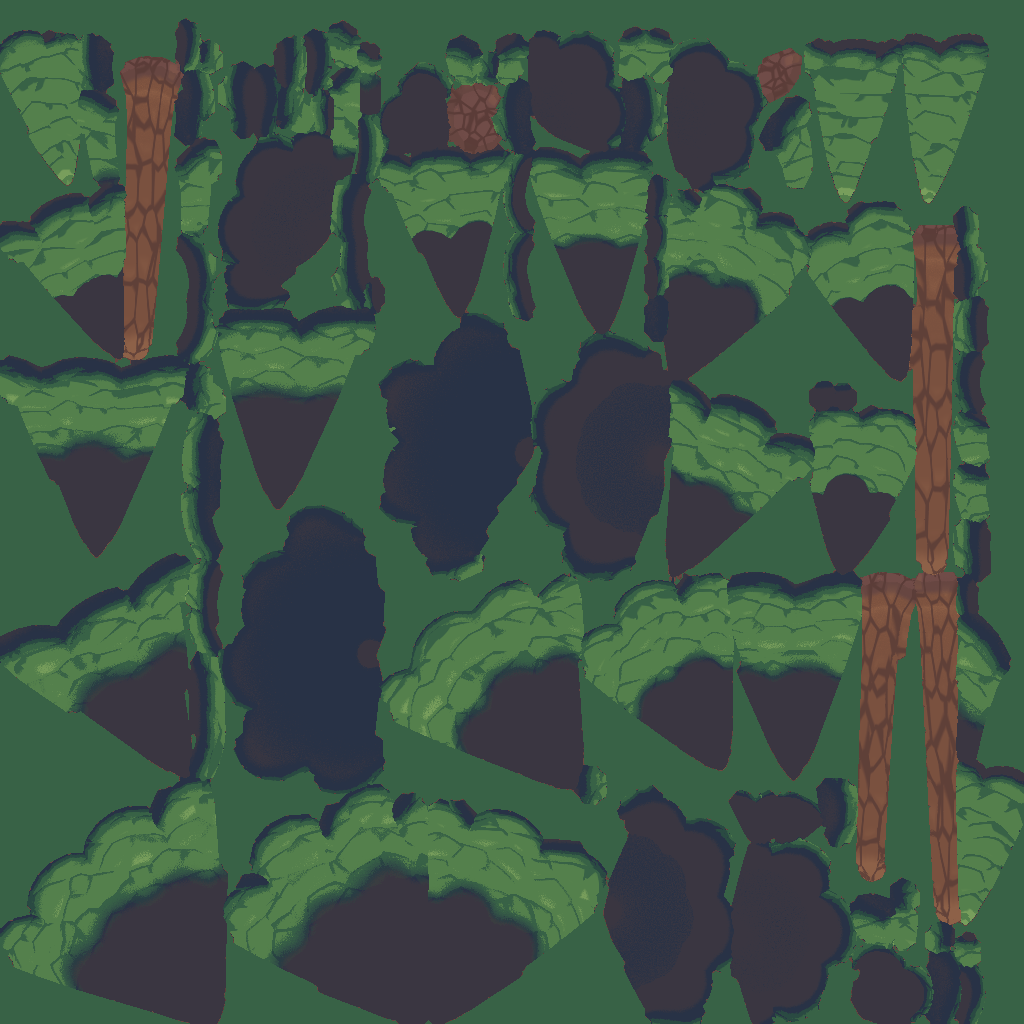
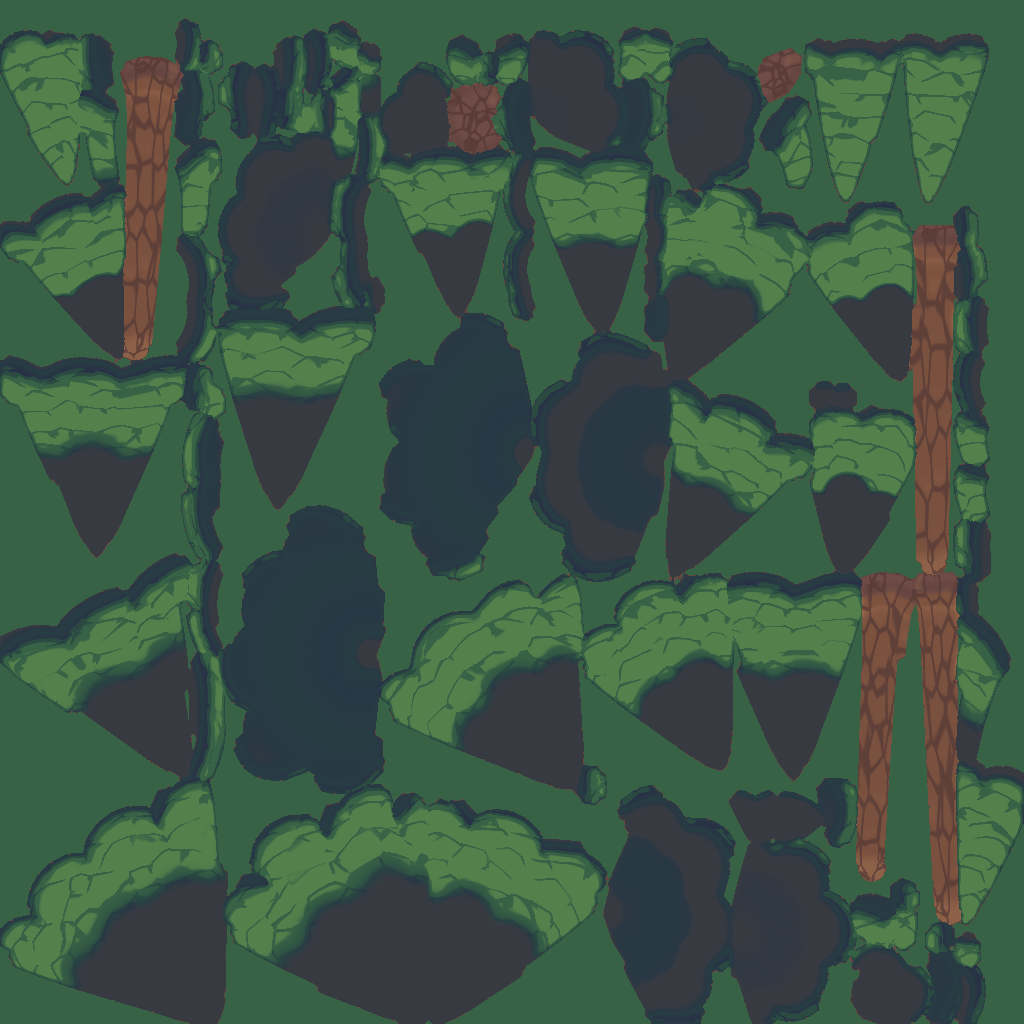
art-rnd-1: trees v4: clean AO (no grain), warmer crevices, no small dabs on the pine
Claude-Session: https://claude.ai/code/session_019Ee5efaMp7ec6dhFqQfV6R

diff --git a/tools/art/trees/paint.py b/tools/art/trees/paint.py
@@ -93,7 +93,13 @@ nb = d["normal"][..., :3] * 2 - 1
 N = np.stack([nb[..., 0], nb[..., 2], -nb[..., 1]], -1).reshape(-1, 3)
 valid = d["normal"][..., :3].reshape(-1, 3).sum(1) > 0.01   # unbaked texels stay 0
 N[valid] /= np.linalg.norm(N[valid], axis=1, keepdims=True)
-ao = d["ao"][..., 0].reshape(-1)
+# The AO, softened so no sampling grain reaches the painting.
+ao = np.clip(d["ao"][..., 0], 0, 1).astype(float)
+k = np.exp(-0.5 * (np.arange(-6, 7) / 2.5) ** 2)
+k /= k.sum()
+for axis in (0, 1):
+    ao = np.apply_along_axis(lambda r: np.convolve(r, k, mode="same"), axis, ao)
+ao = ao.reshape(-1)
 leaf = d["leaf"][..., 0].reshape(-1) > 0.5
 SIZE = d["ao"].shape[0]
 img = np.zeros((SIZE * SIZE, 3))
@@ -107,7 +113,7 @@ if TREE == "birch":
     BARK = dict(lit=c(244, 238, 224), mid=c(224, 216, 206), shade=c(182, 174, 196), mark=c(86, 66, 64), foot=c(146, 130, 132))
 else:
     LEAF = np.array([c(40, 50, 70), c(42, 74, 66), c(56, 98, 70), c(84, 128, 76), c(120, 158, 92)])
-    EDGES = [0.2, 0.42, 0.66, 0.92]
+    EDGES = [0.2, 0.42, 0.66, 9.0]     # no highlight tone: no small dabs on the tiers
     CLUSTER = np.array([0.3, 0.17, 0.3])
     BARK = dict(lit=c(182, 124, 84), mid=c(148, 96, 68), shade=c(112, 76, 72), mark=c(86, 56, 52), foot=c(120, 84, 66))
 
@@ -127,8 +133,9 @@ v = v - 0.2 * crescent
 col = ramp(v, LEAF, EDGES, 0.035)
 # The crevices between clumps: a soft glaze to the deep tone, then a soft cocoa line in
 # the deepest of them.
-col = mix(col, np.repeat(LEAF[:1], len(a), 0), 0.6 * smooth(0.8, 0.4, a))
-col = mix(col, np.repeat(COCOA[None], len(a), 0), 0.35 * smooth(0.5, 0.25, a))
+col = mix(col, np.repeat(LEAF[1:2], len(a), 0), 0.5 * smooth(0.85, 0.5, a))
+col = mix(col, np.repeat(LEAF[:1], len(a), 0), 0.5 * smooth(0.6, 0.3, a))
+col = mix(col, np.repeat(COCOA[None], len(a), 0), 0.3 * smooth(0.4, 0.2, a))
 img[m] = col
 
 # ---- Bark ----

diff --git a/tools/art/trees/blender_build.py b/tools/art/trees/blender_build.py
@@ -306,7 +306,7 @@ scene.world = world
 world.light_settings.distance = 0.9
 scene.render.engine = "CYCLES"
 scene.cycles.device = "CPU"
-scene.cycles.samples = 48
+scene.cycles.samples = 256   # a clean AO: no grain in the painting
 scene.render.bake.use_selected_to_active = False
 scene.render.bake.margin = 8
 scene.render.bake.normal_space = "OBJECT"
